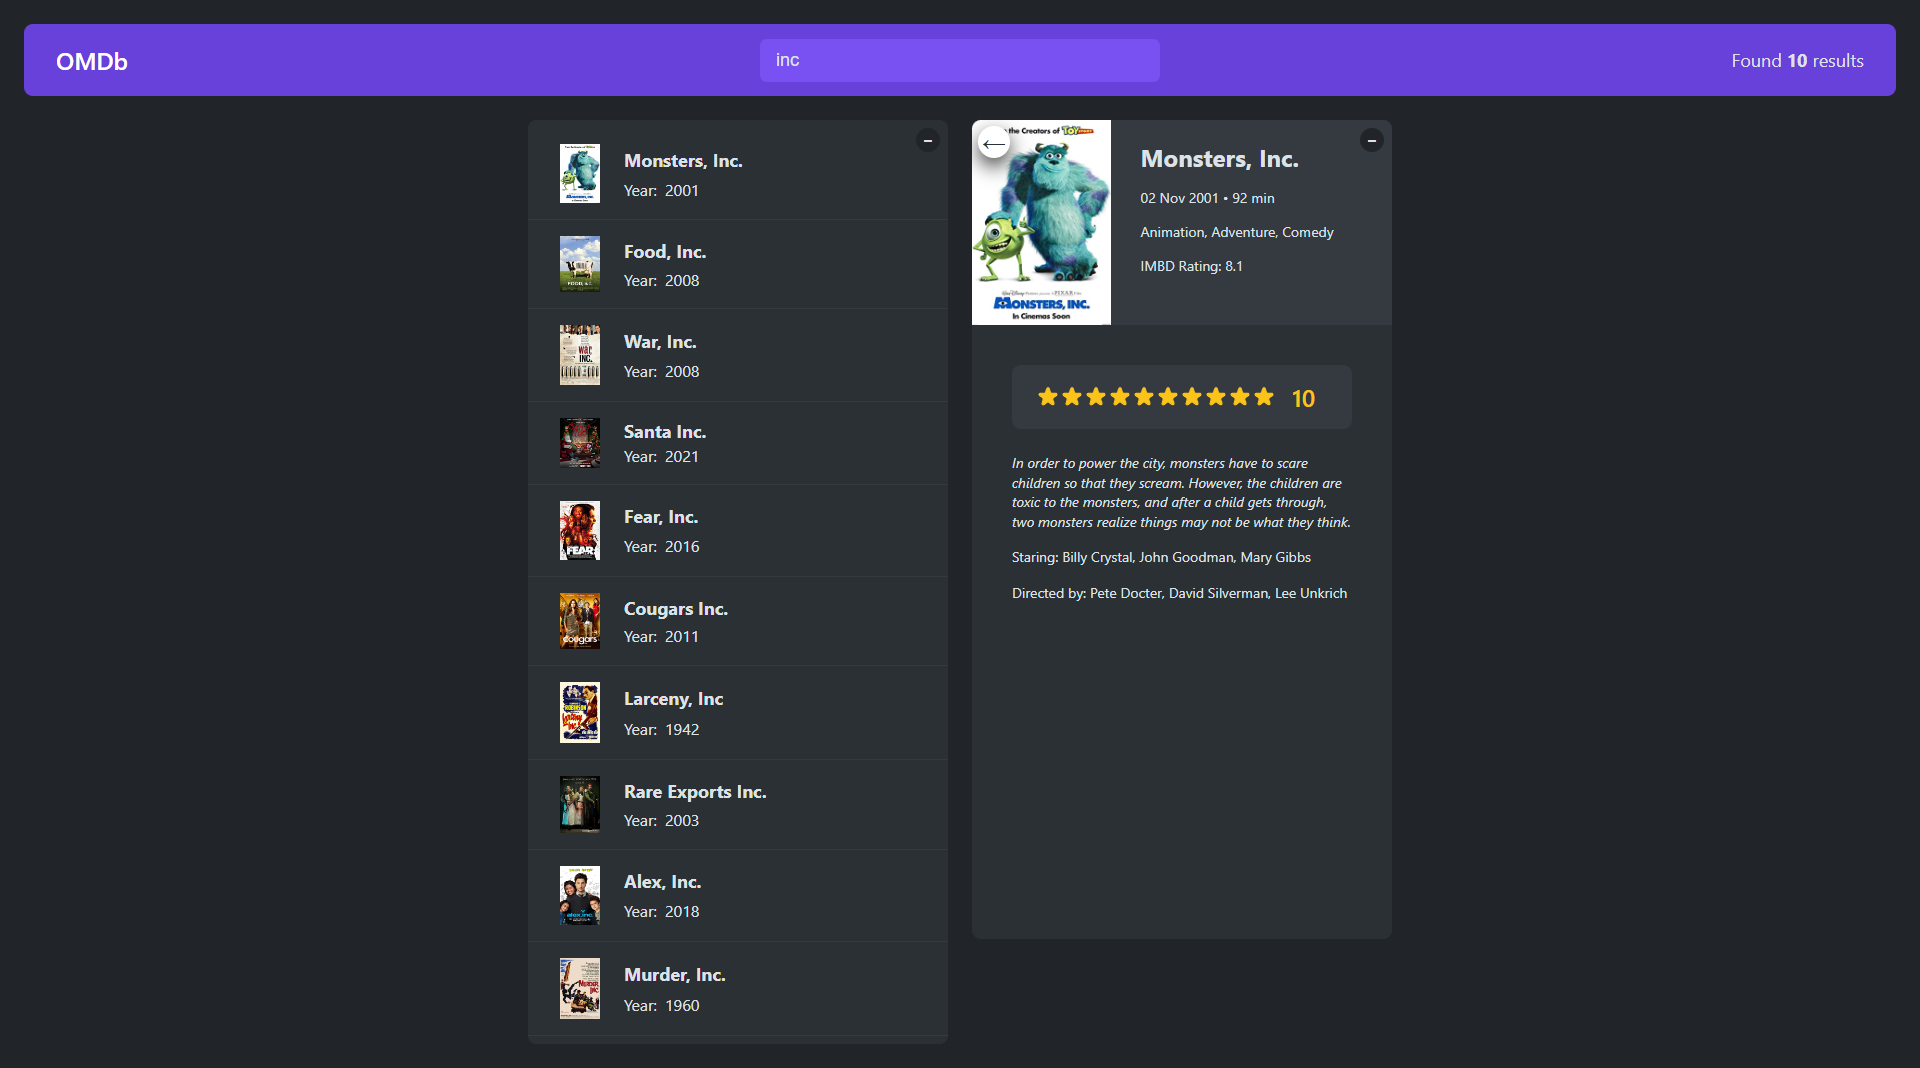
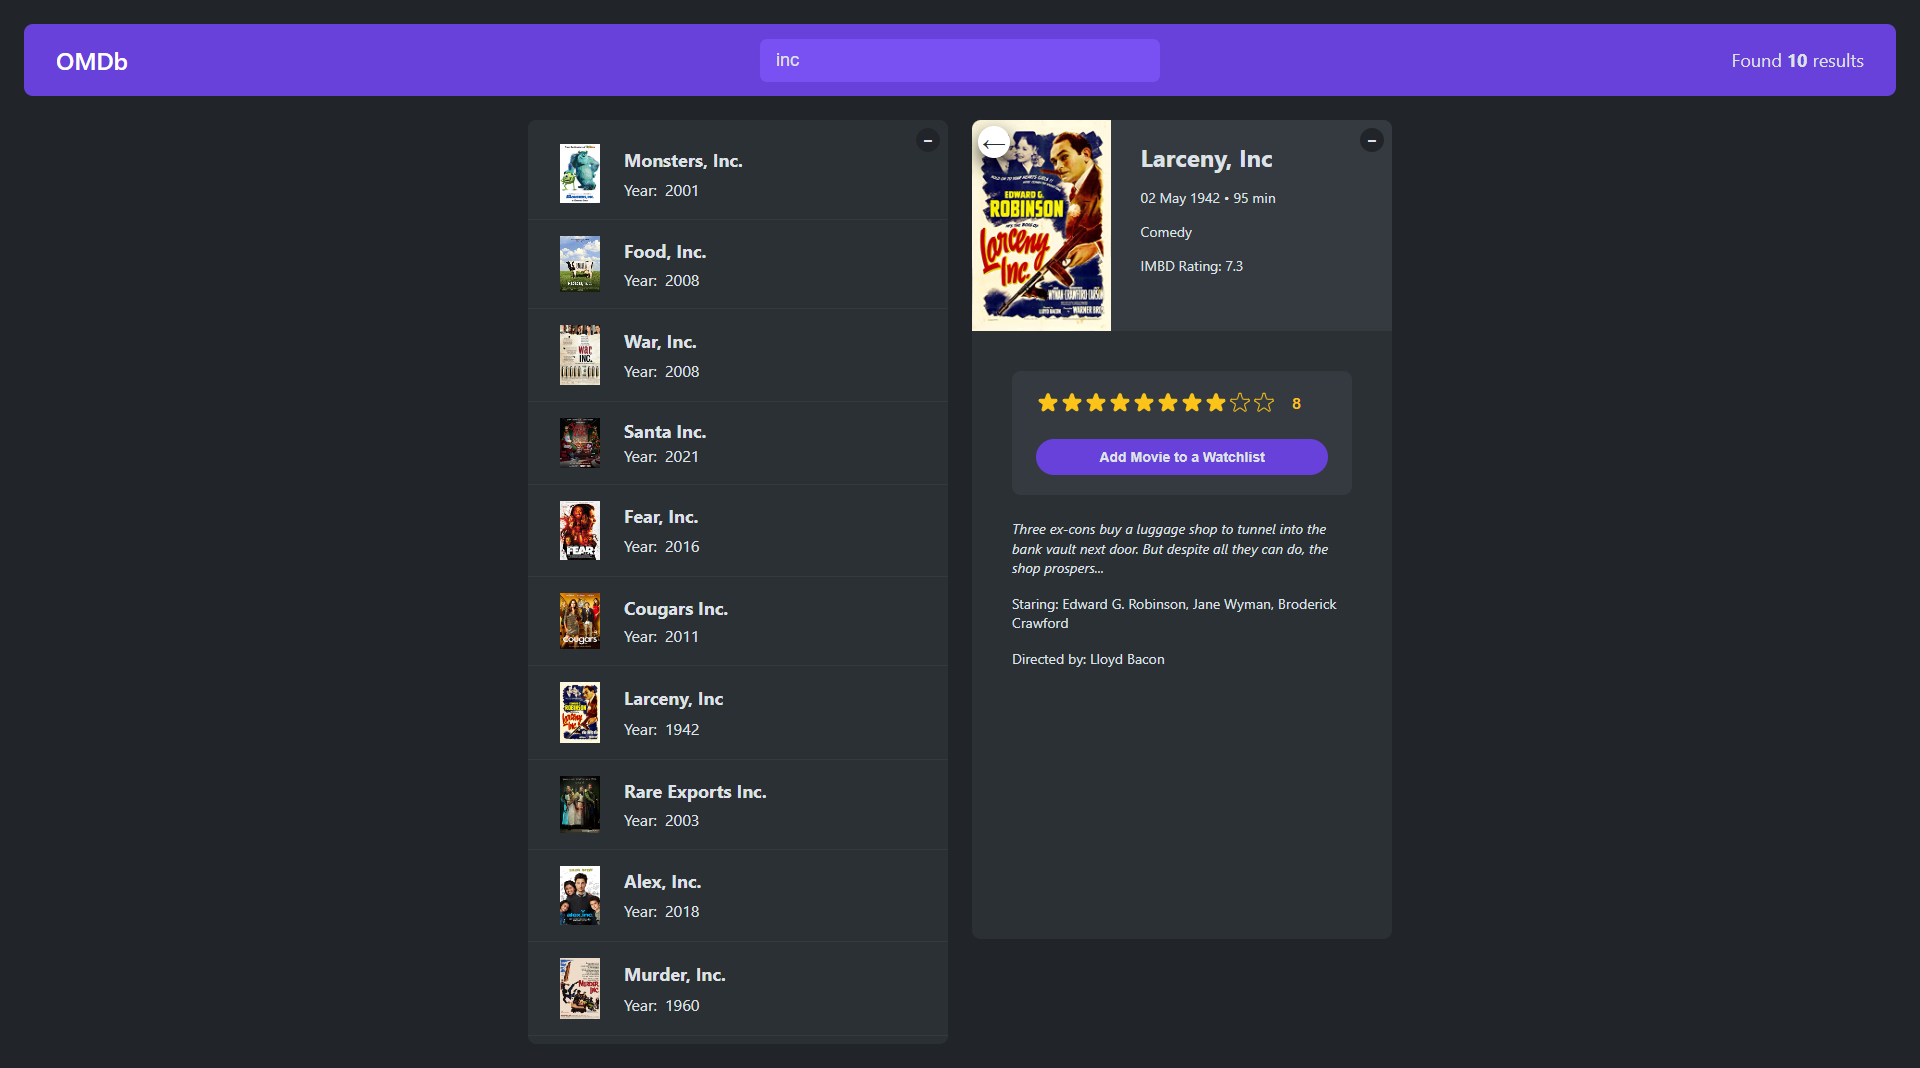
Bug fix + WatchedMovieList Added

Changed region(s): [[0.5312, 0.3399, 0.7188, 0.5871], [0.5, 0.0927, 0.6875, 0.309]]

diff --git a/src/App.js b/src/App.js
@@ -1,29 +1,6 @@
 import { useEffect, useState } from "react";
 import StarRating from "./StarRating";
 
-const tempWatchedData = [
-  {
-    imdbID: "tt1375666",
-    Title: "Inception",
-    Year: "2010",
-    Poster:
-      "https://m.media-amazon.com/images/M/MV5BMjAxMzY3NjcxNF5BMl5BanBnXkFtZTcwNTI5OTM0Mw@@._V1_SX300.jpg",
-    runtime: 148,
-    imdbRating: 8.8,
-    userRating: 10,
-  },
-  {
-    imdbID: "tt0088763",
-    Title: "Back to the Future",
-    Year: "1985",
-    Poster:
-      "https://m.media-amazon.com/images/M/MV5BZmU0M2Y1OGUtZjIxNi00ZjBkLTg1MjgtOWIyNThiZWIwYjRiXkEyXkFqcGdeQXVyMTQxNzMzNDI@._V1_SX300.jpg",
-    runtime: 116,
-    imdbRating: 8.5,
-    userRating: 9,
-  },
-];
-
 const average = (arr) =>
   arr.reduce((acc, cur, i, arr) => acc + cur / arr.length, 0);
 
@@ -32,7 +9,7 @@ const KEY = "a9255fff";
 export default function App() {
   const [query, setQuery] = useState("");
   const [movies, setMovies] = useState([]);
-  const [watched, setWatched] = useState(tempWatchedData);
+  const [watched, setWatched] = useState([]);
   const [isLoading, setIsLoading] = useState(false);
   const [error, setError] = useState("");
   const [selectedId, setSelectedId] = useState(null);
@@ -43,6 +20,14 @@ export default function App() {
 
   function handleCloseMovie() {
     setSelectedId(null);
+  }
+
+  function handleAddWatched(movie) {
+    setWatched((watched) => [...watched, movie]);
+  }
+
+  function handleDeleteWathched(id) {
+    setWatched(watched.filter((movie) => movie.imdbID !== id));
   }
 
   useEffect(
@@ -98,11 +83,16 @@ export default function App() {
             <MovieDetails
               onCloseMovie={handleCloseMovie}
               selectedId={selectedId}
+              onAddWathched={handleAddWatched}
+              watched={watched}
             />
           ) : (
             <>
               <WatchedSummary watched={watched} />
-              <WatchedMovieList watched={watched} />
+              <WatchedMovieList
+                watched={watched}
+                onDeleteWatched={handleDeleteWathched}
+              />
             </>
           )}
         </Box>
@@ -193,66 +183,124 @@ function Movie({ movie, onSelectMovie }) {
   );
 }
 
-function MovieDetails({ selectedId, onCloseMovie }) {
+function MovieDetails({ selectedId, onCloseMovie, onAddWathched, watched }) {
   const [movie, setMovie] = useState({});
+  const [isLoading, setIsLoading] = useState(false);
+  const [userRating, setUserRating] = useState("");
+
+  const isWathched = watched.map((movie) => movie.imdbID).includes(selectedId);
+  const watchedUserRating = watched.find(
+    (movie) => movie.imdbID === selectedId
+  )?.userRating;
 
   const {
     Title: title,
     Poster: poster,
     Runtime: runtime,
-    imdbRating,
+    Year: year,
     Plot: plot,
     Released: released,
     Actors: actors,
     Director: director,
     Genre: genre,
+    imdbRating,
   } = movie;
 
-  useEffect(function () {
-    async function getMovieDetails() {
-      const res = await fetch(
-        `https://www.omdbapi.com/?i=${selectedId}&apikey=${KEY}`
-      );
-      const data = await res.json();
-      setMovie(data);
-    }
-    getMovieDetails();
-  }, []);
+  function handleAdd(movie) {
+    const newWathedMovie = {
+      imdbID: selectedId,
+      title,
+      year,
+      poster,
+      runtime: Number(runtime.split(" ").at(0)),
+      imdbRating: Number(imdbRating),
+      userRating,
+    };
+    onAddWathched(newWathedMovie);
+    onCloseMovie();
+  }
+
+  useEffect(
+    function () {
+      async function getMovieDetails() {
+        setIsLoading(true);
+        const res = await fetch(
+          `https://www.omdbapi.com/?i=${selectedId}&apikey=${KEY}`
+        );
+        const data = await res.json();
+        setMovie(data);
+        setIsLoading(false);
+      }
+      getMovieDetails();
+    },
+    [selectedId]
+  );
 
   return (
     <div className="details">
-      <header>
-        <button className=" btn-back" onClick={onCloseMovie}>
-          &larr;
-        </button>
-        <img src={poster} alt={`Poster of a ${movie}`} />
-        <div className="details-overview">
-          <h2>{title}</h2>
-          <p>
-            {released} &bull; {runtime}
-          </p>
-          <p>{genre}</p>
-          <p> IMBD Rating: {imdbRating}</p>
-        </div>
-      </header>
-      <section>
-        <div className="rating">
-          <StarRating maxRating={10} size={24} />
-        </div>
-        <p>
-          <em>{plot}</em>
-        </p>
-        <p>Staring: {actors}</p>
-        <p>Directed by: {director}</p>
-      </section>
+      {isLoading ? (
+        <Loader />
+      ) : (
+        <>
+          <header>
+            <button className=" btn-back" onClick={onCloseMovie}>
+              &larr;
+            </button>
+            <img src={poster} alt={`Poster of a ${movie}`} />
+            <div className="details-overview">
+              <h2>{title}</h2>
+              <p>
+                {released} &bull; {runtime}
+              </p>
+              <p>{genre}</p>
+              <p> IMBD Rating: {imdbRating}</p>
+            </div>
+          </header>
+          <section>
+            <div className="rating">
+              {!isWathched ? (
+                <>
+                  <StarRating
+                    maxRating={10}
+                    size={24}
+                    onSetRating={setUserRating}
+                  />
+                  {userRating > 0 && (
+                    <button
+                      className="btn-add"
+                      onClick={() => handleAdd(movie)}
+                    >
+                      Add Movie to a Watchlist
+                    </button>
+                  )}
+                </>
+              ) : (
+                <button className="btn-add" onClick={() => onCloseMovie()}>
+                  You rated this movie {watchedUserRating}
+                </button>
+              )}
+            </div>
+
+            <p>
+              <em>{plot}</em>
+            </p>
+            <p>Staring: {actors}</p>
+            <p>Directed by: {director}</p>
+          </section>
+        </>
+      )}
     </div>
   );
 }
 
 function WatchedSummary({ watched }) {
-  const avgImdbRating = average(watched.map((movie) => movie.imdbRating));
-  const avgUserRating = average(watched.map((movie) => movie.userRating));
-  const avgRuntime = average(watched.map((movie) => movie.runtime));
+  const avgImdbRating = average(
+    watched.map((movie) => movie.imdbRating)
+  ).toFixed(2);
+  const avgUserRating = average(
+    watched.map((movie) => movie.userRating)
+  ).toFixed(2);
+  const avgRuntime = average(watched.map((movie) => movie.runtime)).toFixed(0);
 
   return (
     <div className="summary">
@@ -277,21 +325,33 @@ function WatchedSummary({ watched }) {
   );
 }
 
-function WatchedMovieList({ watched }) {
+function WatchedMovieList({ watched, onDeleteWatched }) {
   return (
     <ul className="list">
       {watched.map((movie) => (
-        <WatchedMovie movie={movie} key={movie.imdbID} />
+        <>
+          <WatchedMovie
+            movie={movie}
+            key={movie.imdbID}
+            onDeleteWatched={onDeleteWatched}
+          />
+        </>
       ))}
     </ul>
   );
 }
 
-function WatchedMovie({ movie }) {
+function WatchedMovie({ movie, onDeleteWatched }) {
   return (
     <li key={movie.imdbID}>
-      <img src={movie.Poster} alt={`${movie.Title} poster`} />
-      <h3>{movie.Title}</h3>
+      <button
+        className=" btn-delete"
+        onClick={() => onDeleteWatched(movie.imdbID)}
+      >
+        X
+      </button>
+      <img src={movie.poster} alt={`${movie.title} poster`} />
+      <h3>{movie.title}</h3>
       <div>
         <p>
           <span>⭐</span>

diff --git a/src/StarRating.js b/src/StarRating.js
@@ -1,7 +1,7 @@
 import { useState } from "react";
 import PropTypes from "prop-types";
 
-const ContainerStyle = {
+const containerStyle = {
   display: "flex",
   alignItems: "center",
   gap: "16px",
@@ -13,29 +13,46 @@ const starContainerStyle = {
 
 StarRating.propTypes = {
   maxRating: PropTypes.number,
+  defaultRating: PropTypes.number,
+  color: PropTypes.string,
+  size: PropTypes.number,
+  messages: PropTypes.array,
+  className: PropTypes.string,
+  onSetRating: PropTypes.func,
 };
 
-export default function StarRating({ maxRating = 5, color = "#fcc419", size }) {
-  const [rating, setRating] = useState(0);
+export default function StarRating({
+  maxRating = 5,
+  color = "#fcc419",
+  size = 36,
+  className = "",
+  messages = [],
+  defaultRating = 0,
+  onSetRating,
+}) {
+  const [rating, setRating] = useState(defaultRating);
   const [tempRating, setTempRating] = useState(0);
-  const full = false;
+
+  function handleRating(rating) {
+    setRating(rating);
+    onSetRating(rating);
+  }
 
   const textStyle = {
     lineHeight: "1",
     margin: "0",
     color,
-    fontSize: `${size}px`,
-    size: `${size}px`,
+    fontSize: `${size / 1.5}px`,
   };
 
   return (
-    <div style={ContainerStyle}>
+    <div style={containerStyle} className={className}>
       <div style={starContainerStyle}>
         {Array.from({ length: maxRating }, (_, i) => (
           <Star
             key={i}
-            onRate={() => setRating(i + 1)}
             full={tempRating ? tempRating >= i + 1 : rating >= i + 1}
+            onRate={() => handleRating(i + 1)}
             onHoverIn={() => setTempRating(i + 1)}
             onHoverOut={() => setTempRating(0)}
             color={color}
@@ -43,7 +60,11 @@ export default function StarRating({ maxRating = 5, color = "#fcc419", size }) {
           />
         ))}
       </div>
-      <p style={textStyle}>{tempRating || rating || ""}</p>
+      <p style={textStyle}>
+        {messages.length === maxRating
+          ? messages[tempRating ? tempRating - 1 : rating - 1]
+          : tempRating || rating || ""}
+      </p>
     </div>
   );
 }

diff --git a/src/index.css b/src/index.css
@@ -201,6 +201,7 @@ body {
 .btn-delete {
   position: absolute;
   right: 2.4rem;
+  cursor: pointer;
 
   height: 1.8rem;
   aspect-ratio: 1;
@@ -210,7 +211,6 @@ body {
   color: var(--color-background-900);
   font-size: 0.9rem;
   font-weight: bold;
-  cursor: pointer;
   transition: all 0.3s;
 }
 

diff --git a/README.md b/README.md
@@ -1,1 +1,3 @@
+# Small React Project using APIs with a functionality to add movies to a watchlist and rate them.
+
 ![Alt text](image.png)
